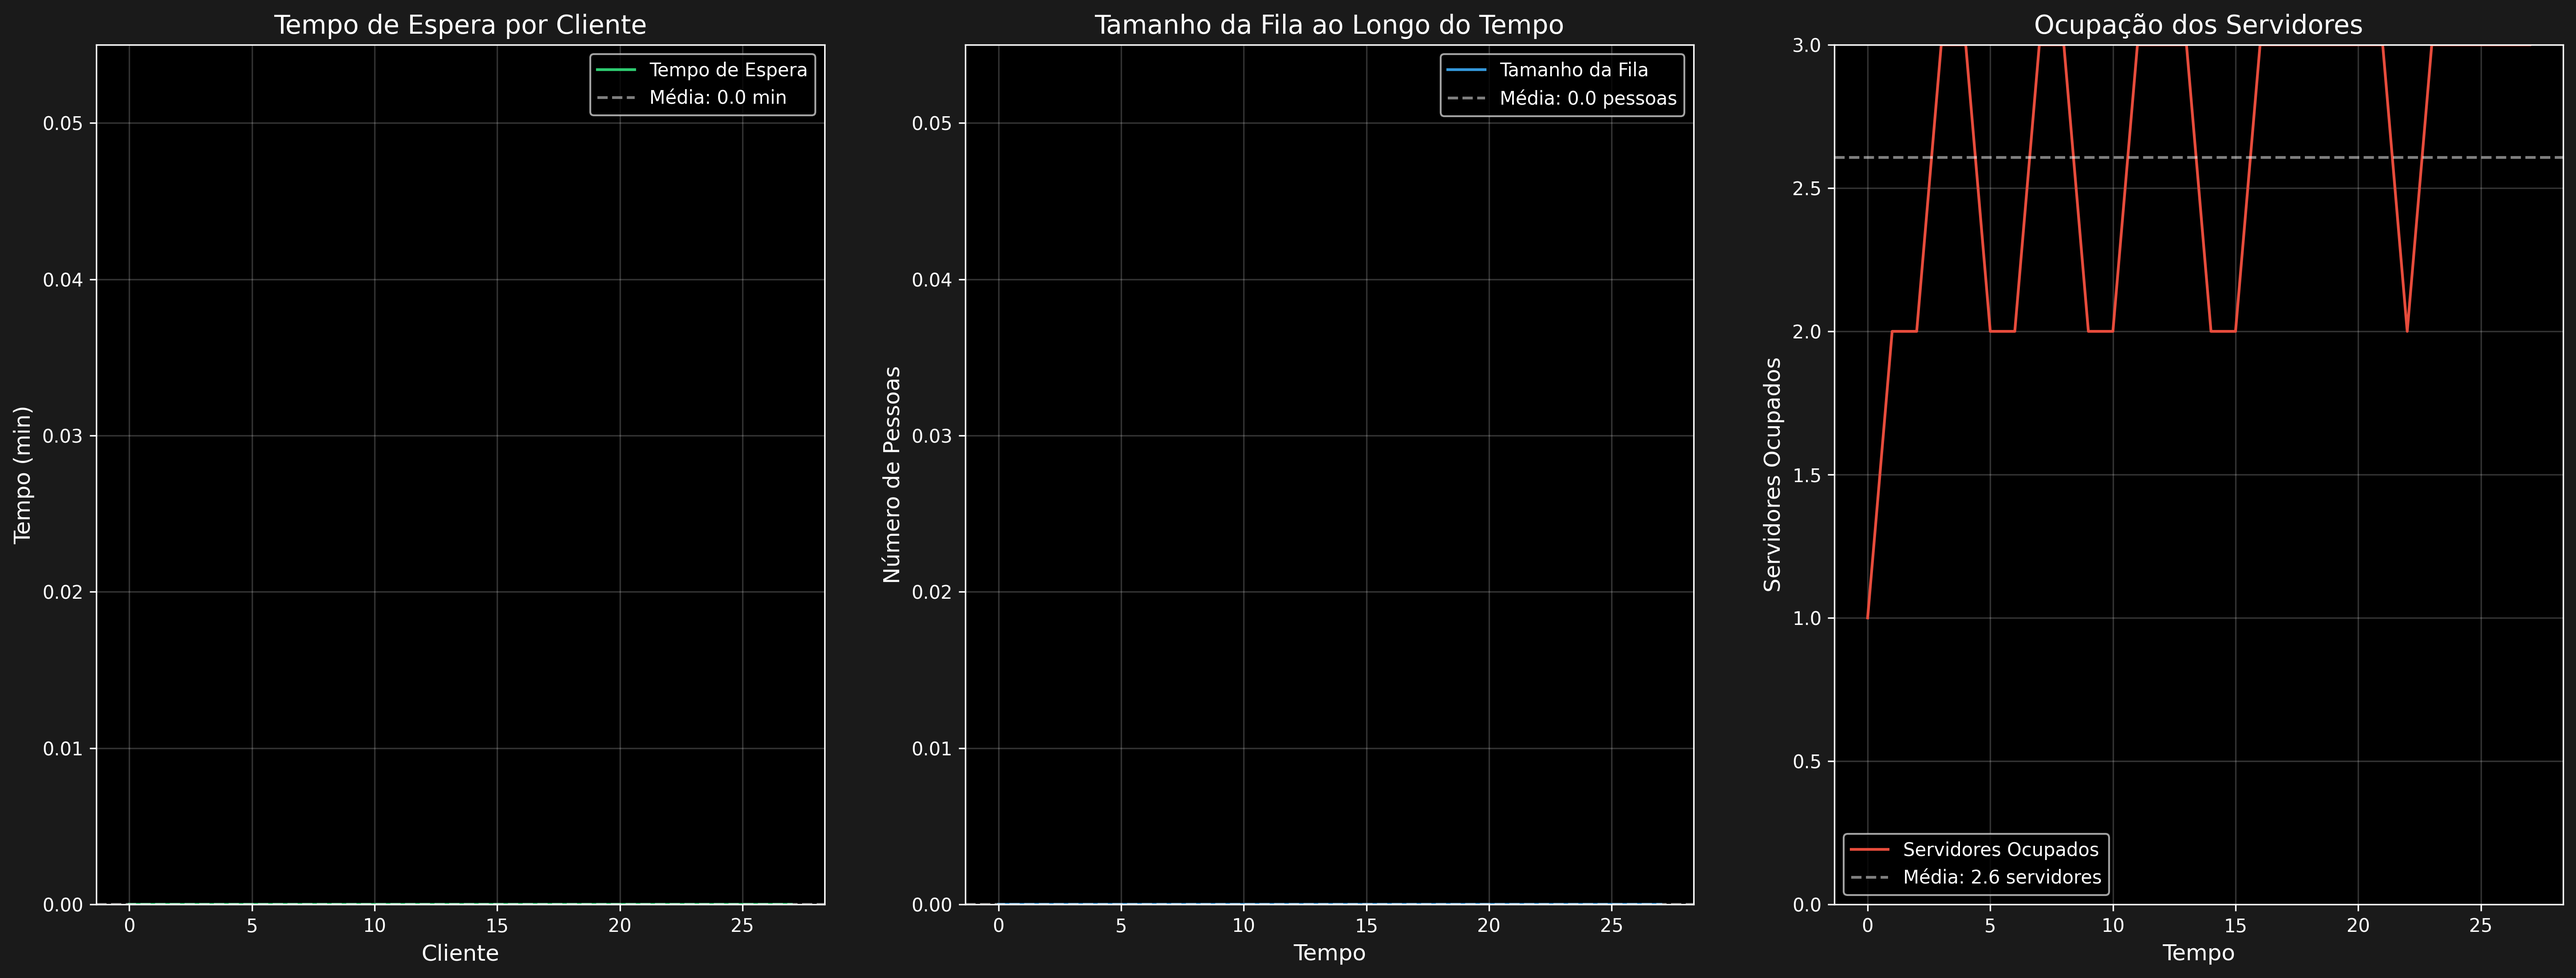
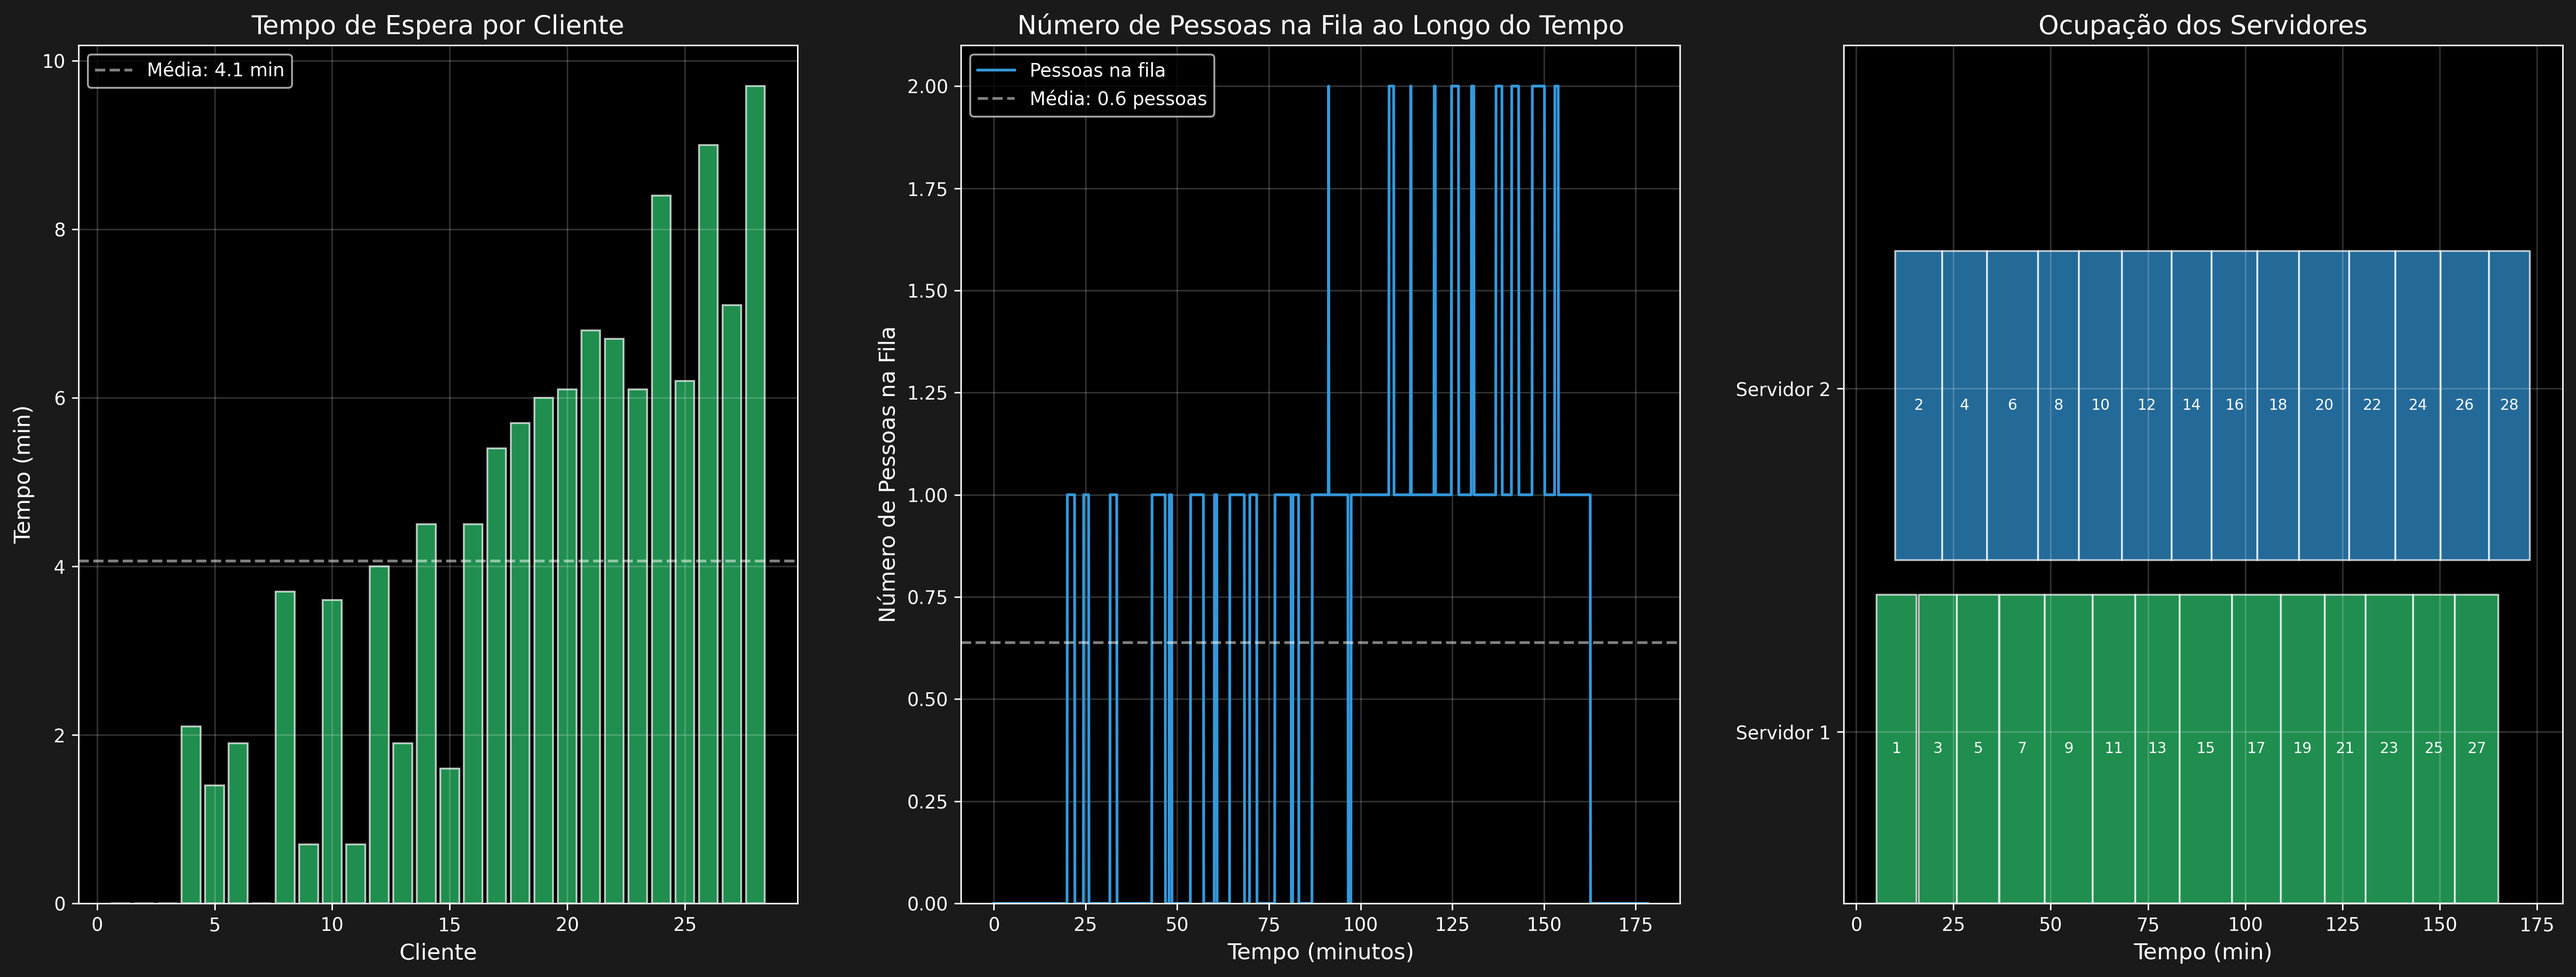
Criação do LICENSE, Update no README e correção dos gráficos das filas

diff --git a/templates/index.html b/templates/index.html
@@ -8,11 +8,11 @@
     <link href="https://fonts.googleapis.com/css2?family=Roboto:wght@300;400;500;700&display=swap" rel="stylesheet">
 </head>
 <body>
-    <div class="container">
-        <header class="header">
+    <div class="container">        <header class="header">
             <h1>Simulador de Clínica de Vacinação</h1>
             <p class="subtitle">Análise de Filas e Estatísticas</p>
-        </header>        <div class="config-panel">
+            <p class="info-text" style="font-size: 0.9em; color: #888;">Fila do tipo FIFO (First In, First Out) - O primeiro a chegar é o primeiro a ser atendido</p>
+        </header><div class="config-panel">
             <h2>Configurações da Simulação</h2>            <div class="config-input">
                 <div class="input-group">
                     <label for="numServidores">Número de Servidores:</label>

diff --git a/simulacao_filas.py b/simulacao_filas.py
@@ -124,47 +124,115 @@ class SimuladorFilas:
     def gerar_graficos(self):
         # Configurar estilo dark mode
         plt.style.use('dark_background')
-        plt.figure(figsize=(20, 8))
         
-        # Gráfico de tempo de espera
+        # Calcular dados necessários para os gráficos
+        n = len(self.dados)
+        tempos_chegada = np.zeros(n)
+        tempo_atual = 0
+        for i, cliente in enumerate(self.dados.itertuples()):
+            tempo_atual += cliente.tempo_entre_chegadas
+            tempos_chegada[i] = tempo_atual
+
+        # Inicialização para simulação
+        inicio_atendimento = np.zeros(n)
+        fim_atendimento = np.zeros(n)
+        fim_servidores = [0.0] * self.num_servidores
+        tempo_espera = np.zeros(n)
+        ocupacoes = {i: [] for i in range(self.num_servidores)}
+
+        # Simulação do atendimento
+        for i in range(n):
+            chegada = tempos_chegada[i]
+            duracao = self.dados.iloc[i]['tempo_atendimento']
+
+            # Encontrar servidor mais livre
+            servidor = min(range(self.num_servidores), key=lambda x: fim_servidores[x])
+            inicio = max(chegada, fim_servidores[servidor])
+            fim = inicio + duracao
+            
+            # Registrar dados
+            inicio_atendimento[i] = inicio
+            fim_atendimento[i] = fim
+            tempo_espera[i] = inicio - chegada
+            ocupacoes[servidor].append((inicio, duracao, i+1))
+            fim_servidores[servidor] = fim
+
+        # Configurar subplots
+        plt.figure(figsize=(20, 8))
+
+        # 1. Gráfico de tempo de espera por cliente
         plt.subplot(131)
-        plt.plot(self.historico_espera, color='#2ecc71', label='Tempo de Espera')  # Verde claro
-        media_espera = np.mean(self.historico_espera)
-        plt.axhline(y=media_espera, color='white', linestyle='--', alpha=0.5, 
+        plt.bar(range(1, n+1), tempo_espera, color='#2ecc71', edgecolor='white', alpha=0.7)
+        media_espera = np.mean(tempo_espera)
+        plt.axhline(y=media_espera, color='white', linestyle='--', alpha=0.5,
                    label=f'Média: {media_espera:.1f} min')
         plt.title('Tempo de Espera por Cliente', fontsize=14, color='white')
         plt.xlabel('Cliente', fontsize=12, color='white')
         plt.ylabel('Tempo (min)', fontsize=12, color='white')
         plt.grid(True, alpha=0.2)
         plt.legend()
-        plt.ylim(bottom=0)  # Garantir que o gráfico comece do zero
-        
-        # Gráfico de tamanho da fila
+        plt.ylim(bottom=0)        # 2. Gráfico de tamanho da fila ao longo do tempo
         plt.subplot(132)
-        plt.plot(self.historico_fila, color='#3498db', label='Tamanho da Fila')  # Azul claro
-        media_fila = np.mean(self.historico_fila)
+        
+        # Recalcular inicio_atendimento e fim_atendimento
+        inicio_atendimento = np.zeros(n)
+        fim_atendimento = np.zeros(n)
+        fim_servidores = [0.0] * self.num_servidores
+
+        # Simular atendimento com o número correto de servidores
+        for i in range(n):
+            chegada = tempos_chegada[i]
+            duracao = self.dados.iloc[i]['tempo_atendimento']
+            
+            # Encontrar servidor mais livre
+            servidor = min(range(self.num_servidores), key=lambda x: fim_servidores[x])
+            inicio = max(chegada, fim_servidores[servidor])
+            fim = inicio + duracao
+            
+            inicio_atendimento[i] = inicio
+            fim_atendimento[i] = fim
+            fim_servidores[servidor] = fim
+
+        # Criar linha do tempo para o gráfico
+        timeline = np.linspace(0, max(fim_atendimento) + 5, 2000)
+        fila_size = [np.sum((tempos_chegada <= t) & (inicio_atendimento > t)) for t in timeline]
+
+        plt.plot(timeline, fila_size, color='#3498db', label='Pessoas na fila')
+        media_fila = np.mean(fila_size)
         plt.axhline(y=media_fila, color='white', linestyle='--', alpha=0.5,
                    label=f'Média: {media_fila:.1f} pessoas')
-        plt.title('Tamanho da Fila ao Longo do Tempo', fontsize=14, color='white')
-        plt.xlabel('Tempo', fontsize=12, color='white')
-        plt.ylabel('Número de Pessoas', fontsize=12, color='white')
+        plt.title('Número de Pessoas na Fila ao Longo do Tempo', fontsize=14, color='white')
+        plt.xlabel('Tempo (minutos)', fontsize=12, color='white')
+        plt.ylabel('Número de Pessoas na Fila', fontsize=12, color='white')
         plt.grid(True, alpha=0.2)
         plt.legend()
         plt.ylim(bottom=0)
-        
-        # Gráfico de ocupação dos servidores
+
+        # 3. Gráfico de ocupação dos servidores (Gantt)
         plt.subplot(133)
-        plt.plot(self.historico_ocupacao, color='#e74c3c', label='Servidores Ocupados')  # Vermelho claro
-        media_ocupacao = np.mean(self.historico_ocupacao)
-        plt.axhline(y=media_ocupacao, color='white', linestyle='--', alpha=0.5,
-                   label=f'Média: {media_ocupacao:.1f} servidores')
+        colors = ['#2ecc71', '#3498db', '#e74c3c', '#f1c40f', '#9b59b6', 
+                 '#1abc9c', '#e67e22', '#34495e', '#7f8c8d', '#c0392b']
+        ax = plt.gca()
+        for servidor, tarefas in ocupacoes.items():
+            for (inicio, duracao, label) in tarefas:
+                ax.broken_barh([(inicio, duracao)], 
+                             (servidor * 10, 9),
+                             facecolors=colors[servidor % len(colors)],
+                             edgecolor='white',
+                             alpha=0.7)
+                # Adicionar o número do cliente no centro da barra
+                ax.text(inicio + duracao/2, servidor * 10 + 4.5, label,
+                       ha='center', va='center', color='white',
+                       fontsize=8)
+
         plt.title('Ocupação dos Servidores', fontsize=14, color='white')
-        plt.xlabel('Tempo', fontsize=12, color='white')
-        plt.ylabel('Servidores Ocupados', fontsize=12, color='white')
+        plt.xlabel('Tempo (min)', fontsize=12, color='white')
+        plt.yticks([5 + 10*i for i in range(self.num_servidores)],
+                  [f'Servidor {i+1}' for i in range(self.num_servidores)])
         plt.grid(True, alpha=0.2)
-        plt.legend()
-        plt.ylim(0, self.num_servidores)  # Limitar ao número máximo de servidores
-        
+        plt.ylim(0, 10 * self.num_servidores + 5)
+
+        # Ajustar layout e salvar
         plt.tight_layout(pad=3.0)
         plt.savefig('assets/graficos_simulacao.png', dpi=300, facecolor='#1a1a1a', bbox_inches='tight')
         plt.close('all')
